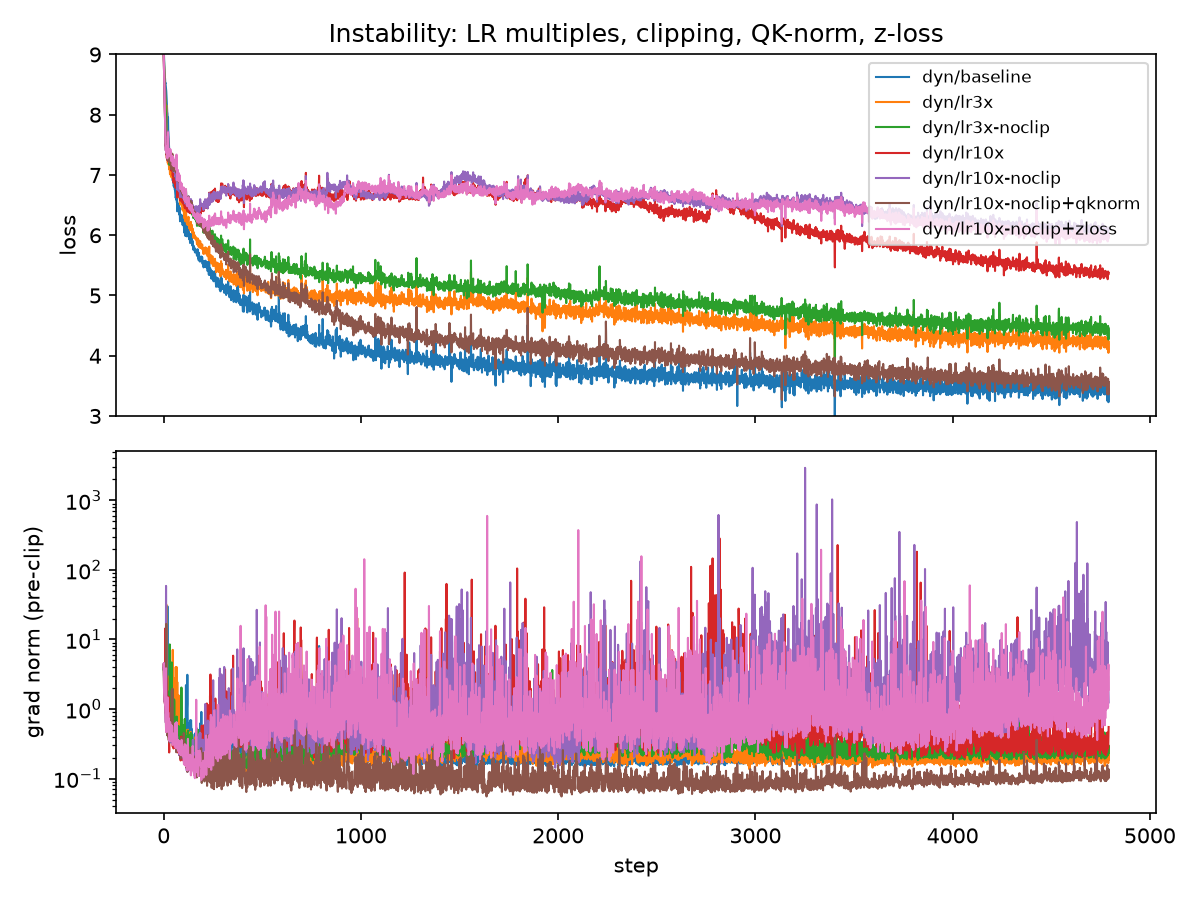
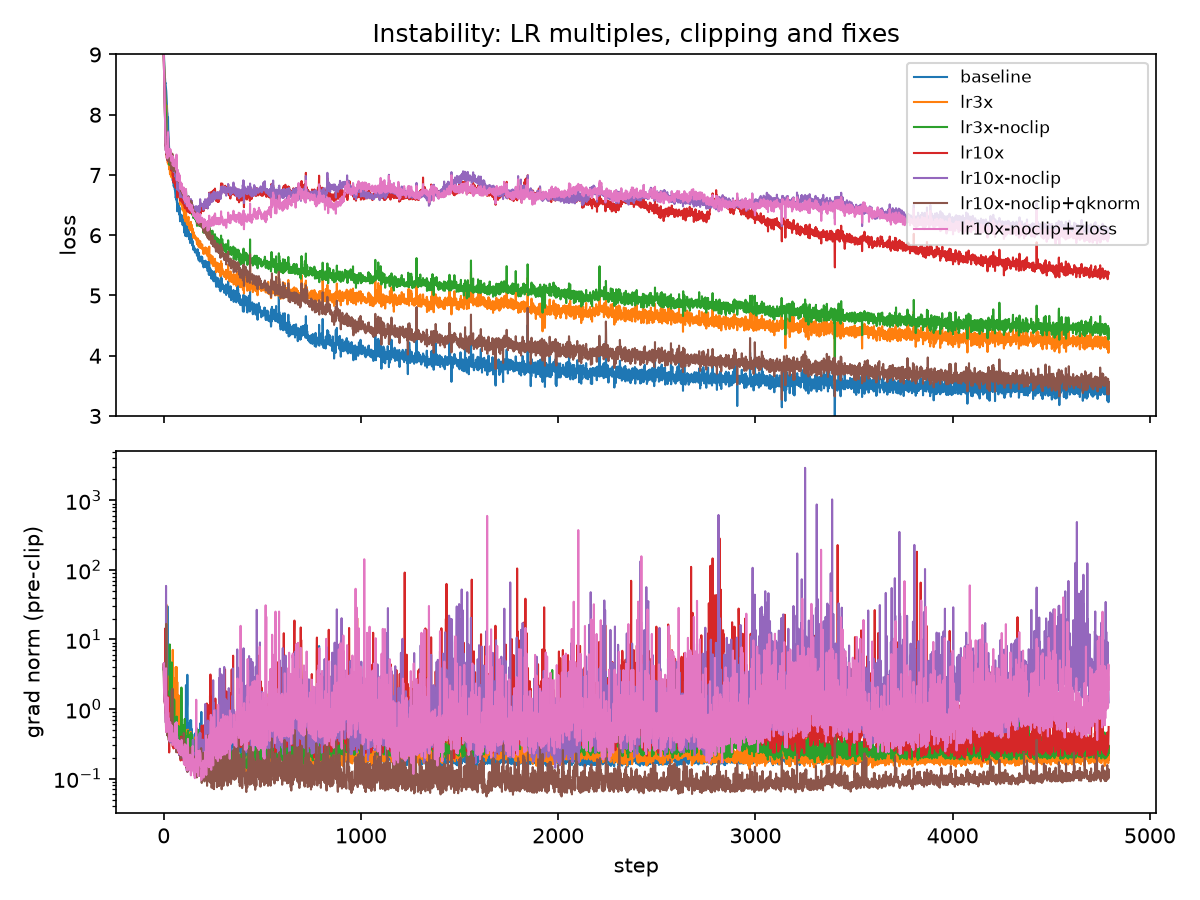
analysis: plot_dynamics regenerates the dynamics figures from committed results

Changed region(s): [[0.2775, 0.0311, 0.8017, 0.28]]

diff --git a/analysis/plots.py b/analysis/plots.py
@@ -141,12 +141,54 @@ def plot_layer_diagnostics(rows: list[dict], title: str, path) -> Path:
     return _save(fig, path)
 
 
+_DYN_FIGS = (
+    ("dyn_instability.png", "Instability: LR multiples, clipping and fixes",
+     ("dyn/baseline", "dyn/lr3x", "dyn/lr3x-noclip", "dyn/lr10x", "dyn/lr10x-noclip",
+      "dyn/lr10x-noclip+qknorm", "dyn/lr10x-noclip+zloss")),
+    ("dyn_warmup.png", "Warmup", ("dyn/baseline", "dyn/warmup0", "dyn/warmup1")),
+    ("dyn_beta2.png", "Adam beta2", ("dyn/baseline", "dyn/beta2-0.999")),
+    ("dyn_batch.png", "Batch size at equal tokens and LR",
+     ("dyn/batch32k", "dyn/baseline", "dyn/batch128k", "dyn/batch256k", "dyn/batch512k")),
+)
+_DYN_LAYER_RUNS = ("dyn/lr10x-noclip", "dyn/lr10x-noclip+qknorm", "dyn/lr10x-noclip+zloss", "dyn/lr3x")
+
+
+def dyn_run_ids(results_dir) -> dict[str, str]:
+    """Run name -> run_id for the dynamics runs; dyn/baseline is the grid 3e16/r20 run unless named itself."""
+    from analysis.common import load_failed, load_results
+
+    ids = {r["name"]: r["run_id"] for r in load_results(results_dir) + load_failed(results_dir)}
+    if "dyn/baseline" not in ids and "grid/3e+16/r20" in ids:
+        ids["dyn/baseline"] = ids["grid/3e+16/r20"]
+    return {k: v for k, v in ids.items() if k.startswith("dyn/")}
+
+
+def plot_dynamics(results_dir, out_dir) -> list[Path]:
+    """Regenerate every dynamics figure from the committed results and curves."""
+    from analysis.common import load_curve, load_diag
+
+    ids = dyn_run_ids(results_dir)
+    out = []
+    for fname, title, names in _DYN_FIGS:
+        curves = {n.removeprefix("dyn/"): load_curve(results_dir, ids[n]) for n in names if n in ids}
+        if curves:
+            out.append(plot_curves(curves, title, Path(out_dir, fname), ylim=(3, 9)))
+    for n in _DYN_LAYER_RUNS:
+        if n in ids:
+            rows = load_diag(results_dir, ids[n])
+            if rows:
+                suffix = n.removeprefix("dyn/")
+                out.append(plot_layer_diagnostics(rows, n, Path(out_dir, f"dyn_instability_layers_{suffix}.png")))
+    return out
+
+
 def main(results_dir="results", out_dir="figures") -> None:
+    root = Path(results_dir).resolve().parent
     fits = Path(results_dir, "fits", "isoflop.json")
     if fits.exists():
         iso = json.loads(fits.read_text())
         optima, exps = iso["optima"], iso["exponents"]
-        pred_path, outcome_path = Path("predictions/3e17.json"), Path("predictions/3e17_outcome.json")
+        pred_path, outcome_path = root / "predictions/3e17.json", root / "predictions/3e17_outcome.json"
         pred = json.loads(pred_path.read_text()) if pred_path.exists() else None
         outcome = json.loads(outcome_path.read_text()) if outcome_path.exists() else None
         p_n = (pred["budget"], pred["isoflop"]["n_opt"]) if pred else None
@@ -157,9 +199,11 @@ def main(results_dir="results", out_dir="figures") -> None:
         plot_optima(optima, exps, Path(out_dir, "optima.png"), predicted=p_n, actual=a_n)
         plot_frontier(optima, Path(out_dir, "frontier.png"), predicted=p_l, actual=a_l)
         plot_tokens_per_param(optima, Path(out_dir, "tokens_per_param.png"))
-    rule = Path("lr_rule.json")
+    rule = root / "lr_rule.json"
     if rule.exists():
         plot_lr_sweep(json.loads(rule.read_text())["groups"], Path(out_dir, "lr_sweep.png"))
+    if dyn_run_ids(results_dir):
+        plot_dynamics(results_dir, out_dir)
     print(f"figures written to {out_dir}/")
 
 

diff --git a/tests/test_plots.py b/tests/test_plots.py
@@ -35,3 +35,27 @@ def test_plot_layer_diagnostics(tmp_path):
             for s in range(0, 60, 20)]
     p = plots.plot_layer_diagnostics(rows, "diag", tmp_path / "layers.png")
     assert p.exists() and p.stat().st_size > 1000
+
+
+def test_plot_dynamics_writes_files(tmp_path):
+    import json
+
+    res = tmp_path / "results"
+    (res / "curves").mkdir(parents=True)
+    names = ["grid/3e+16/r20", "dyn/lr3x", "dyn/lr3x-noclip", "dyn/lr10x", "dyn/lr10x-noclip", "dyn/lr10x-noclip+qknorm",
+             "dyn/lr10x-noclip+zloss", "dyn/warmup0", "dyn/warmup1", "dyn/beta2-0.999", "dyn/batch32k", "dyn/batch128k",
+             "dyn/batch256k", "dyn/batch512k"]
+    for i, n in enumerate(names):
+        rid = f"run{i:02d}"
+        (res / f"{rid}.json").write_text(json.dumps({"run_id": rid, "name": n}))
+        rows = [{"step": s, "loss": 6 - s / 50 + i * 0.01, "grad_norm": 1.0 + i} for s in range(100)]
+        (res / "curves" / f"{rid}.jsonl").write_text("\n".join(json.dumps(r) for r in rows))
+        diag = [{"step": s, **{f"grad_norm/layer_{k}": 1.0 + k for k in range(2)},
+                 **{f"attn_max_logit/layer_{k}": 3.0 * k for k in range(2)}} for s in range(0, 100, 20)]
+        (res / "curves" / f"{rid}.diag.jsonl").write_text("\n".join(json.dumps(r) for r in diag))
+    paths = plots.plot_dynamics(res, tmp_path / "figs")
+    got = {p.name for p in paths}
+    assert {"dyn_instability.png", "dyn_warmup.png", "dyn_beta2.png", "dyn_batch.png",
+            "dyn_instability_layers_lr10x-noclip.png", "dyn_instability_layers_lr10x-noclip+qknorm.png",
+            "dyn_instability_layers_lr10x-noclip+zloss.png", "dyn_instability_layers_lr3x.png"} == got
+    assert all(p.exists() and p.stat().st_size > 1000 for p in paths)
